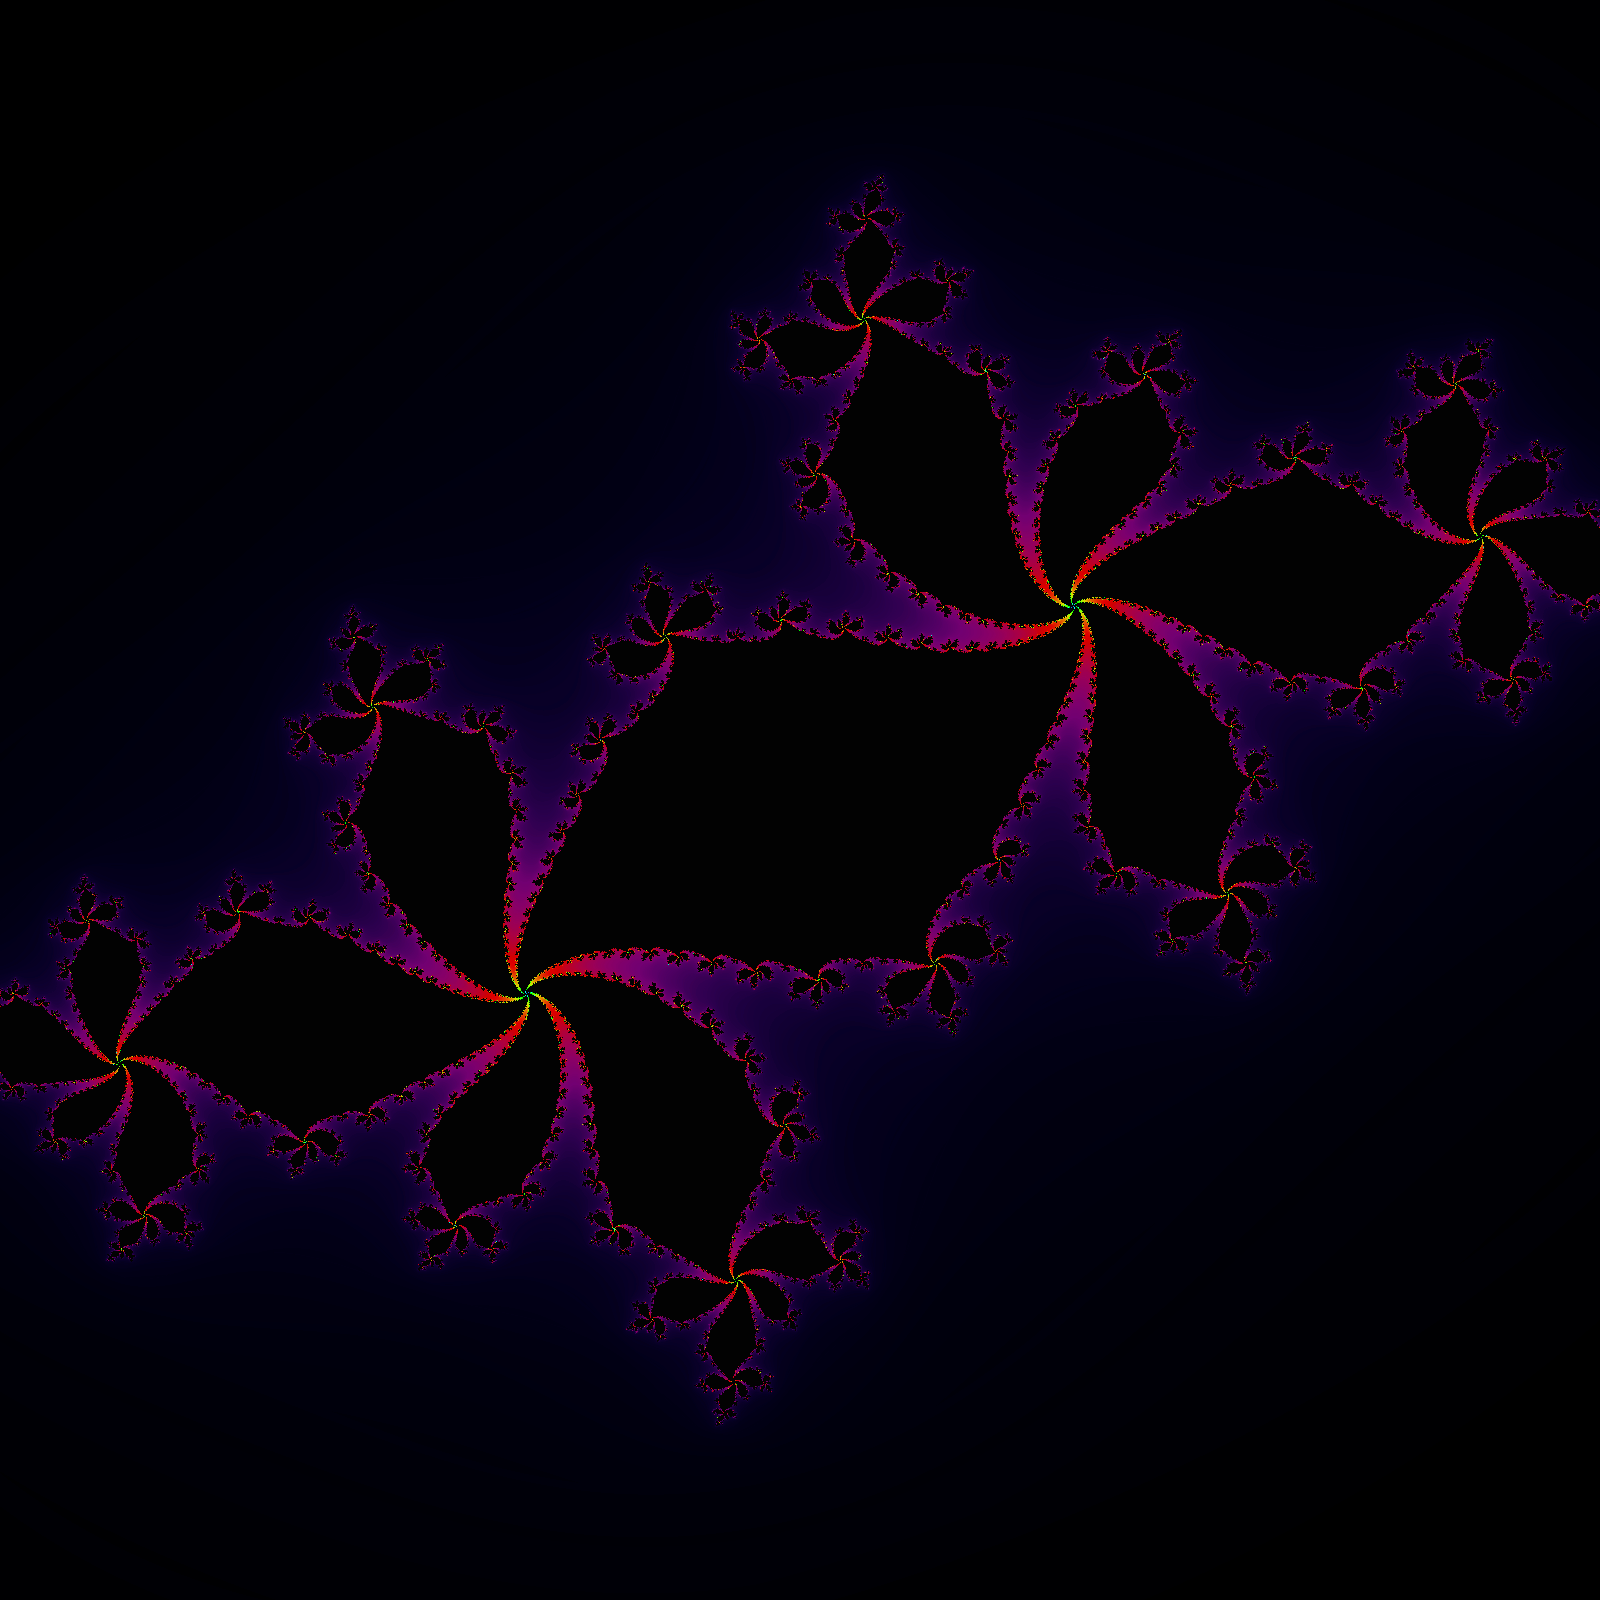
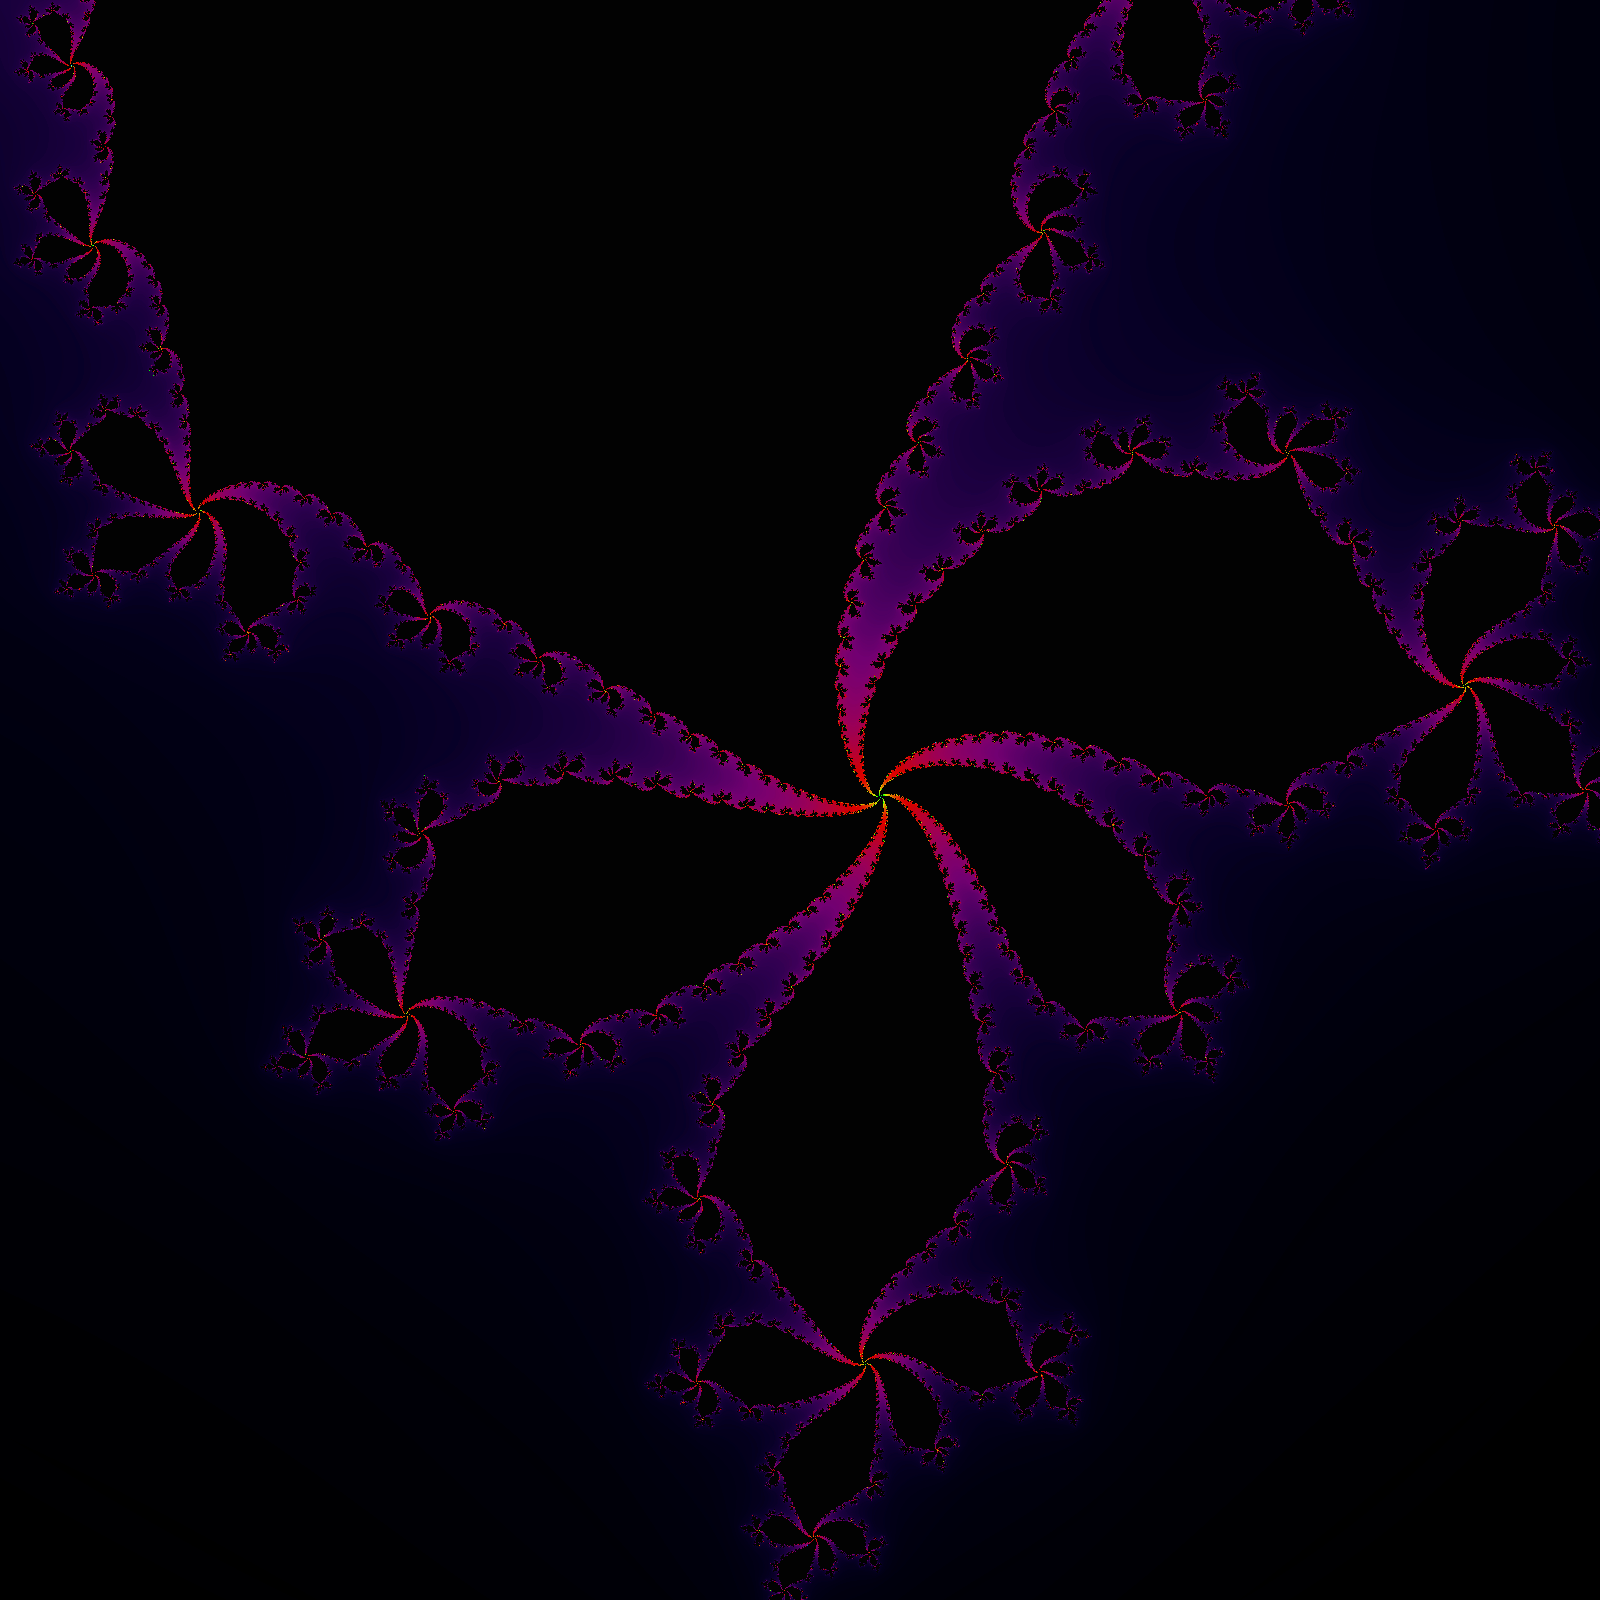
update

Changed region(s): [[0.0, 0.0, 1.0, 1.0]]

diff --git a/julia_render.py b/julia_render.py
@@ -6,27 +6,25 @@ from matplotlib.colors import hsv_to_rgb
 def compute_julia(
     width=1600,
     height=1600,
-    x_range=(-1.23, 1.23),
-    y_range=(-1.23, 1.23),
+    center=(-0.12, 0.74),
+    scale=0.22,
     c=complex(-0.51, 0.55),
-    max_iter=300,
+    max_iter=400,
     escape_radius=2.0,
 ):
     """
     Compute a Julia set with smooth escape-time coloring.
-    Returns:
-        smooth: normalized smooth iteration counts in [0, 1]
-        escaped: boolean mask of points that escaped
     """
+    x_range = (center[0] - scale, center[0] + scale)
+    y_range = (center[1] - scale, center[1] + scale)
+
     x = np.linspace(x_range[0], x_range[1], width, dtype=np.float64)
     y = np.linspace(y_range[0], y_range[1], height, dtype=np.float64)
     X, Y = np.meshgrid(x, y)
 
-    Z0 = X + 1j * Y
-    Z = Z0.copy()
+    Z = X + 1j * Y
 
     escaped = np.zeros(Z.shape, dtype=bool)
-    escape_iter = np.full(Z.shape, max_iter, dtype=np.int32)
     smooth = np.zeros(Z.shape, dtype=np.float64)
 
     escape_radius_sq = escape_radius * escape_radius
@@ -42,10 +40,7 @@ def compute_julia(
         just_escaped = active & (mag_sq > escape_radius_sq)
         if np.any(just_escaped):
             escaped[just_escaped] = True
-            escape_iter[just_escaped] = i
-
             abs_z = np.sqrt(mag_sq[just_escaped])
-            # Smooth iteration count
             smooth[just_escaped] = i + 1 - np.log2(np.log(abs_z))
 
     if np.any(escaped):
@@ -65,9 +60,9 @@ def colorize_julia(
     escaped,
     hue_offset=0.68,
     hue_scale=0.95,
-    saturation=0.85,
-    interior_value=0.02,
-    gamma=0.85,
+    saturation=0.9,
+    interior_value=0.015,
+    gamma=0.8,
 ):
     """
     Convert normalized smooth values into RGB using HSV mapping.
@@ -75,12 +70,10 @@ def colorize_julia(
     h, w = smooth.shape
     hsv = np.zeros((h, w, 3), dtype=np.float64)
 
-    # Escaped points get colorful mapping
     hsv[..., 0] = (hue_offset + hue_scale * smooth) % 1.0
     hsv[..., 1] = saturation
     hsv[..., 2] = np.power(smooth, gamma)
 
-    # Interior points stay dark for contrast
     hsv[~escaped, 1] = 0.0
     hsv[~escaped, 2] = interior_value
 
@@ -91,19 +84,16 @@ def colorize_julia(
 
 def pixel_sort_by_luminance(
     image,
-    threshold=70,
-    min_run_length=16,
+    threshold=75,
+    min_run_length=20,
     sort_descending=False,
 ):
     """
     Pixel-sort contiguous bright regions in each row using luminance.
-    This produces a more intentional glitch effect than sorting RGB channels
-    independently.
     """
     arr = np.array(image)
     out = arr.copy()
 
-    # Perceptual luminance
     lum = (
         0.2126 * arr[..., 0]
         + 0.7152 * arr[..., 1]
@@ -136,9 +126,9 @@ def pixel_sort_by_luminance(
 
 def enhance_image(
     image,
-    color=1.6,
-    contrast=1.2,
-    brightness=1.08,
+    color=1.8,
+    contrast=1.25,
+    brightness=1.1,
 ):
     """
     Apply gentle post-processing.
@@ -150,19 +140,13 @@ def enhance_image(
 
 
 def main():
-    width, height = 1600, 1600
-    x_range = (-1.23, 1.23)
-    y_range = (-1.23, 1.23)
-    c = complex(-0.51, 0.55)
-    max_iter = 400
-
     smooth, escaped = compute_julia(
-        width=width,
-        height=height,
-        x_range=x_range,
-        y_range=y_range,
-        c=c,
-        max_iter=max_iter,
+        width=1600,
+        height=1600,
+        center=(-0.12, 0.74),
+        scale=0.22,
+        c=complex(-0.51, 0.55),
+        max_iter=400,
         escape_radius=2.0,
     )
 
